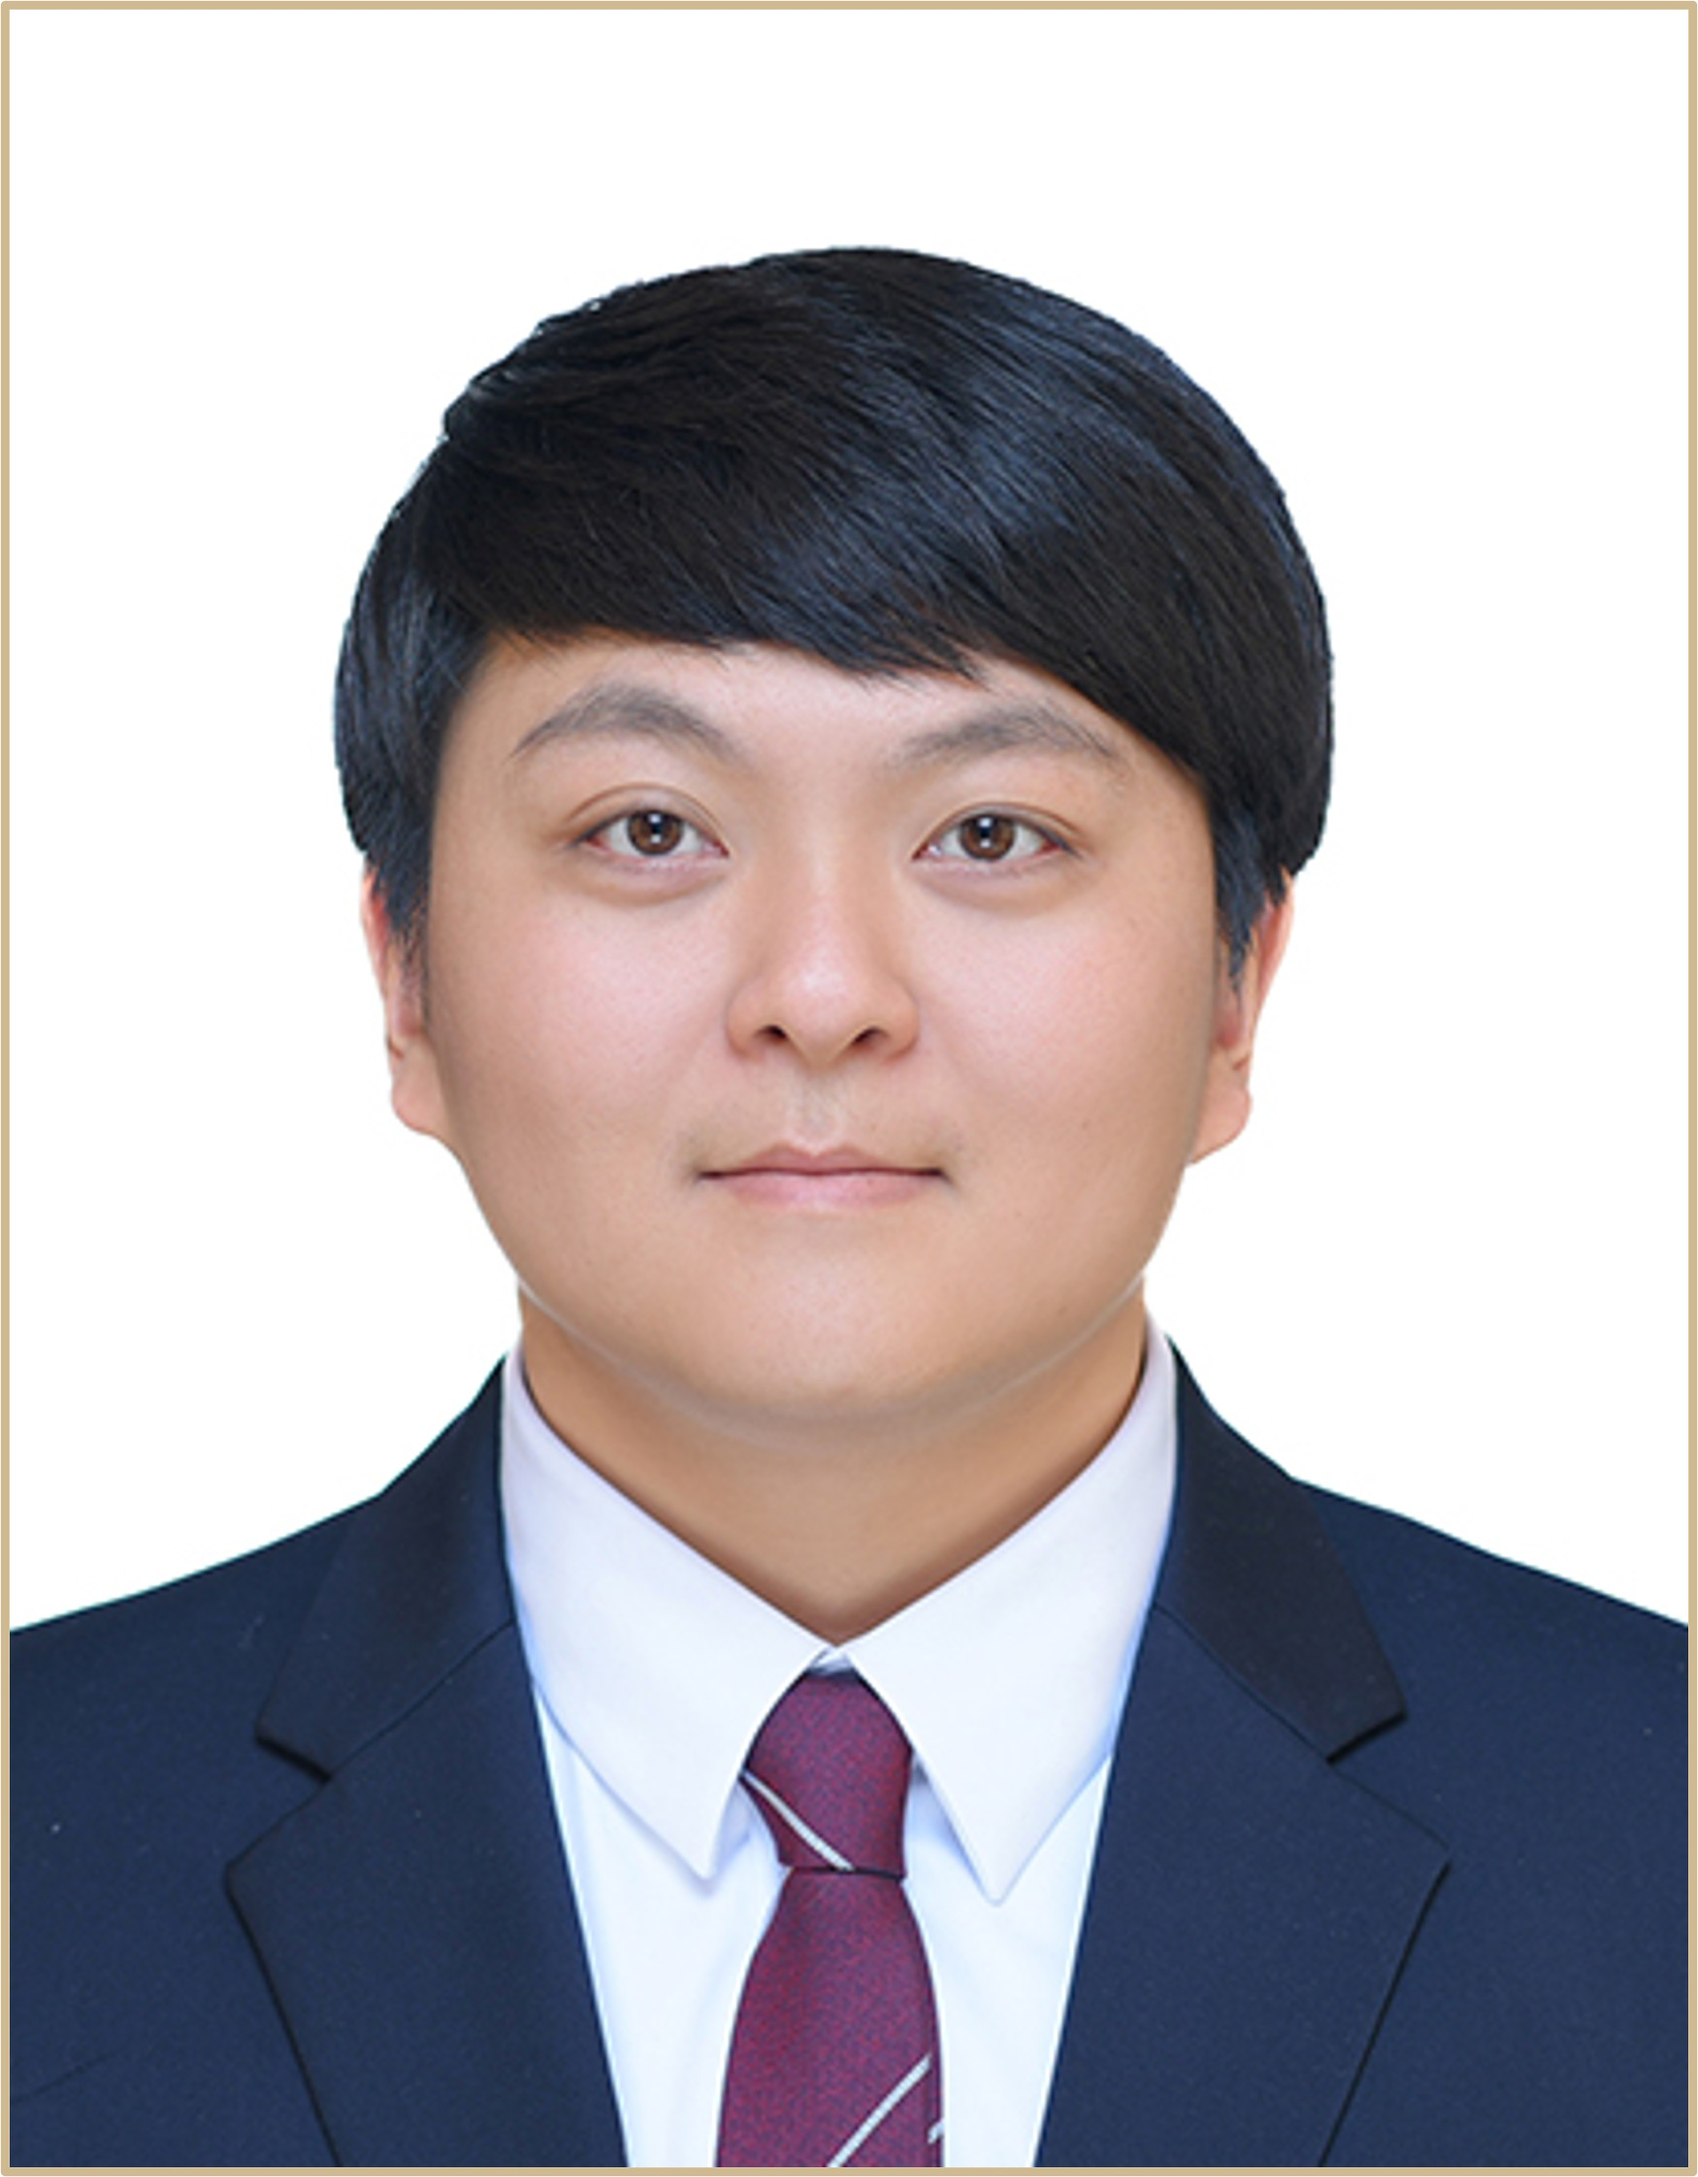
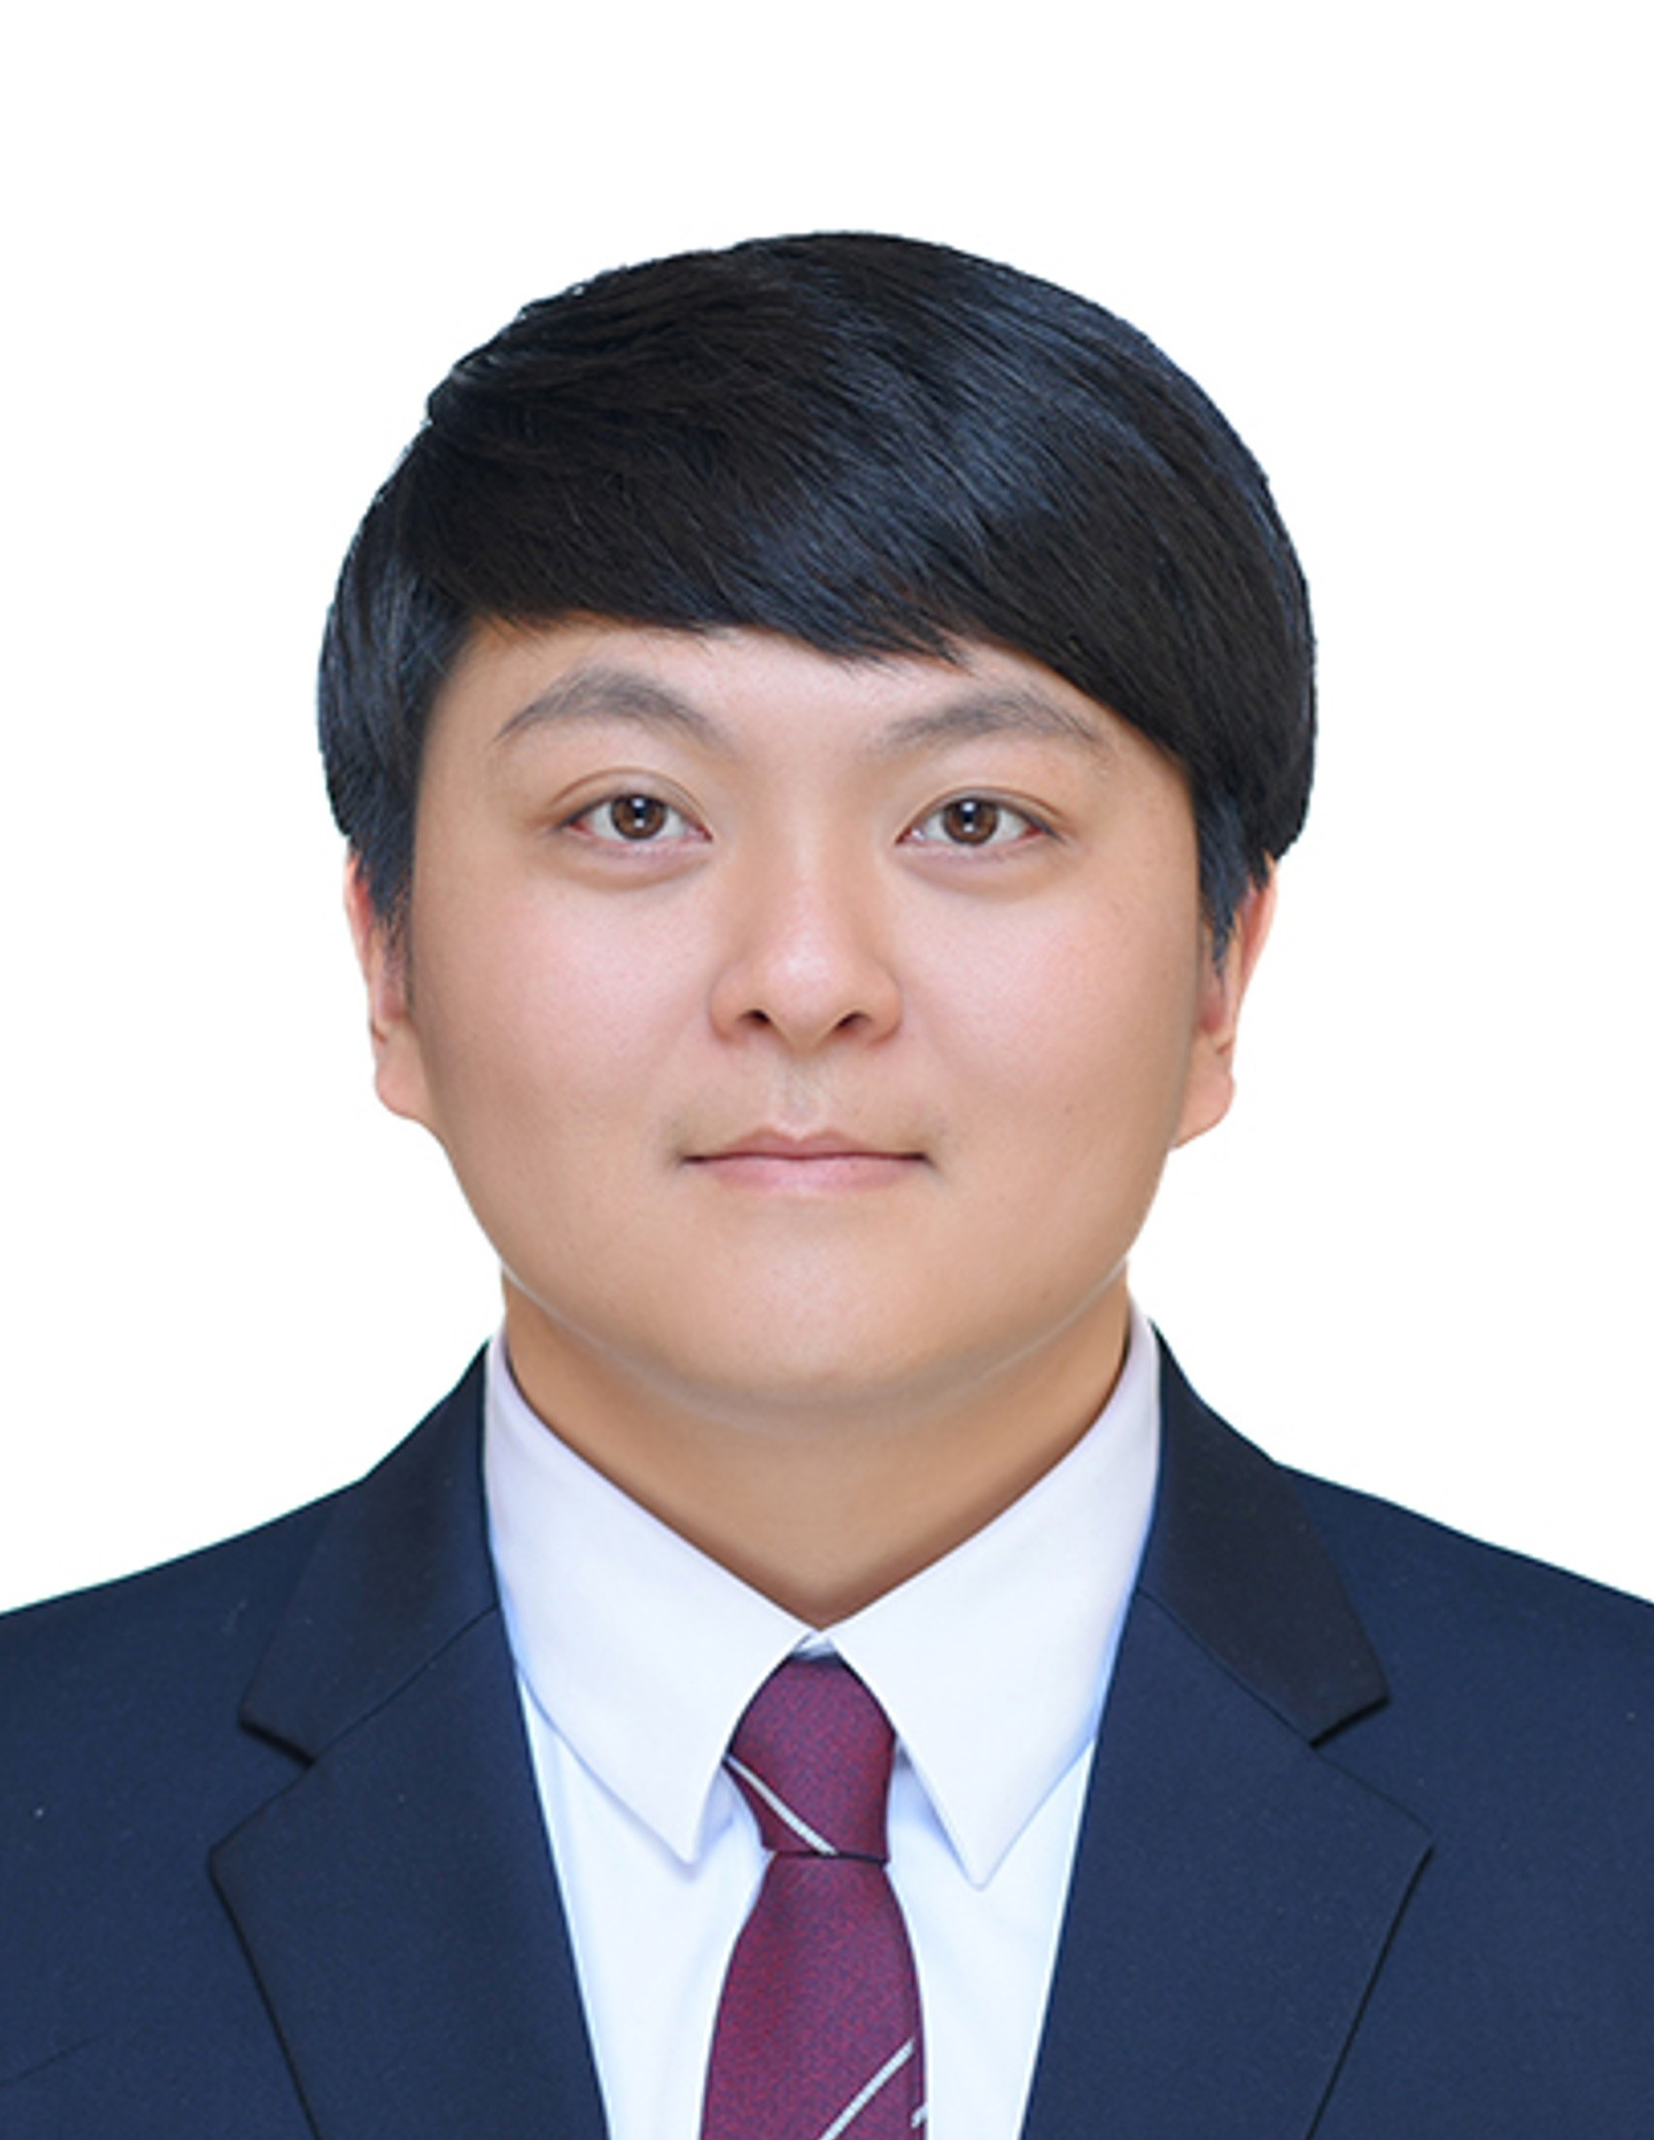
member update

diff --git a/_pages/members.md b/_pages/members.md
@@ -221,7 +221,7 @@ force_desktop: true
   </div>
 
   <div style="display: flex; align-items: center;">
-    <img src="https://github.com/purduelamm/purduelamm.github.io/blob/master/assets/images/pictures/members/D_MS_Students/Sungwoo_Bae.png?raw=true" style="width: 157px; height: 200px; margin-right: 20px; object-fit: cover;"/>
+    <img src="https://github.com/purduelamm/purduelamm.github.io/blob/master/assets/images/pictures/members/D_MS_Students/Sungwoo_Bae.jpg?raw=true" style="width: 157px; height: 200px; margin-right: 20px; object-fit: cover;"/>
     <div>
       <div style="margin-bottom: 5px;">Sungwoo Bae</div>
       <div style="margin-bottom: 5px;">MS Student</div>
@@ -269,7 +269,7 @@ force_desktop: true
   </div>
 
   <div style="display: flex; align-items: center;">
-    <img src="https://github.com/purduelamm/purduelamm.github.io/blob/master/assets/images/pictures/members/E_Visiting_Researchers_and_Students/Cheoljin_Park.png?raw=true" style="width: 157px; height: 200px; margin-right: 20px; object-fit: cover;"/>
+    <img src="https://github.com/purduelamm/purduelamm.github.io/blob/master/assets/images/pictures/members/E_Visiting_Researchers_and_Students/Cheoljin_Park.jpg?raw=true" style="width: 157px; height: 200px; margin-right: 20px; object-fit: cover;"/>
     <div>
       <div style="margin-bottom: 5px;">Dr. Cheoljin Park</div>
       <div style="margin-bottom: 5px;">Visiting Researcher</div>
